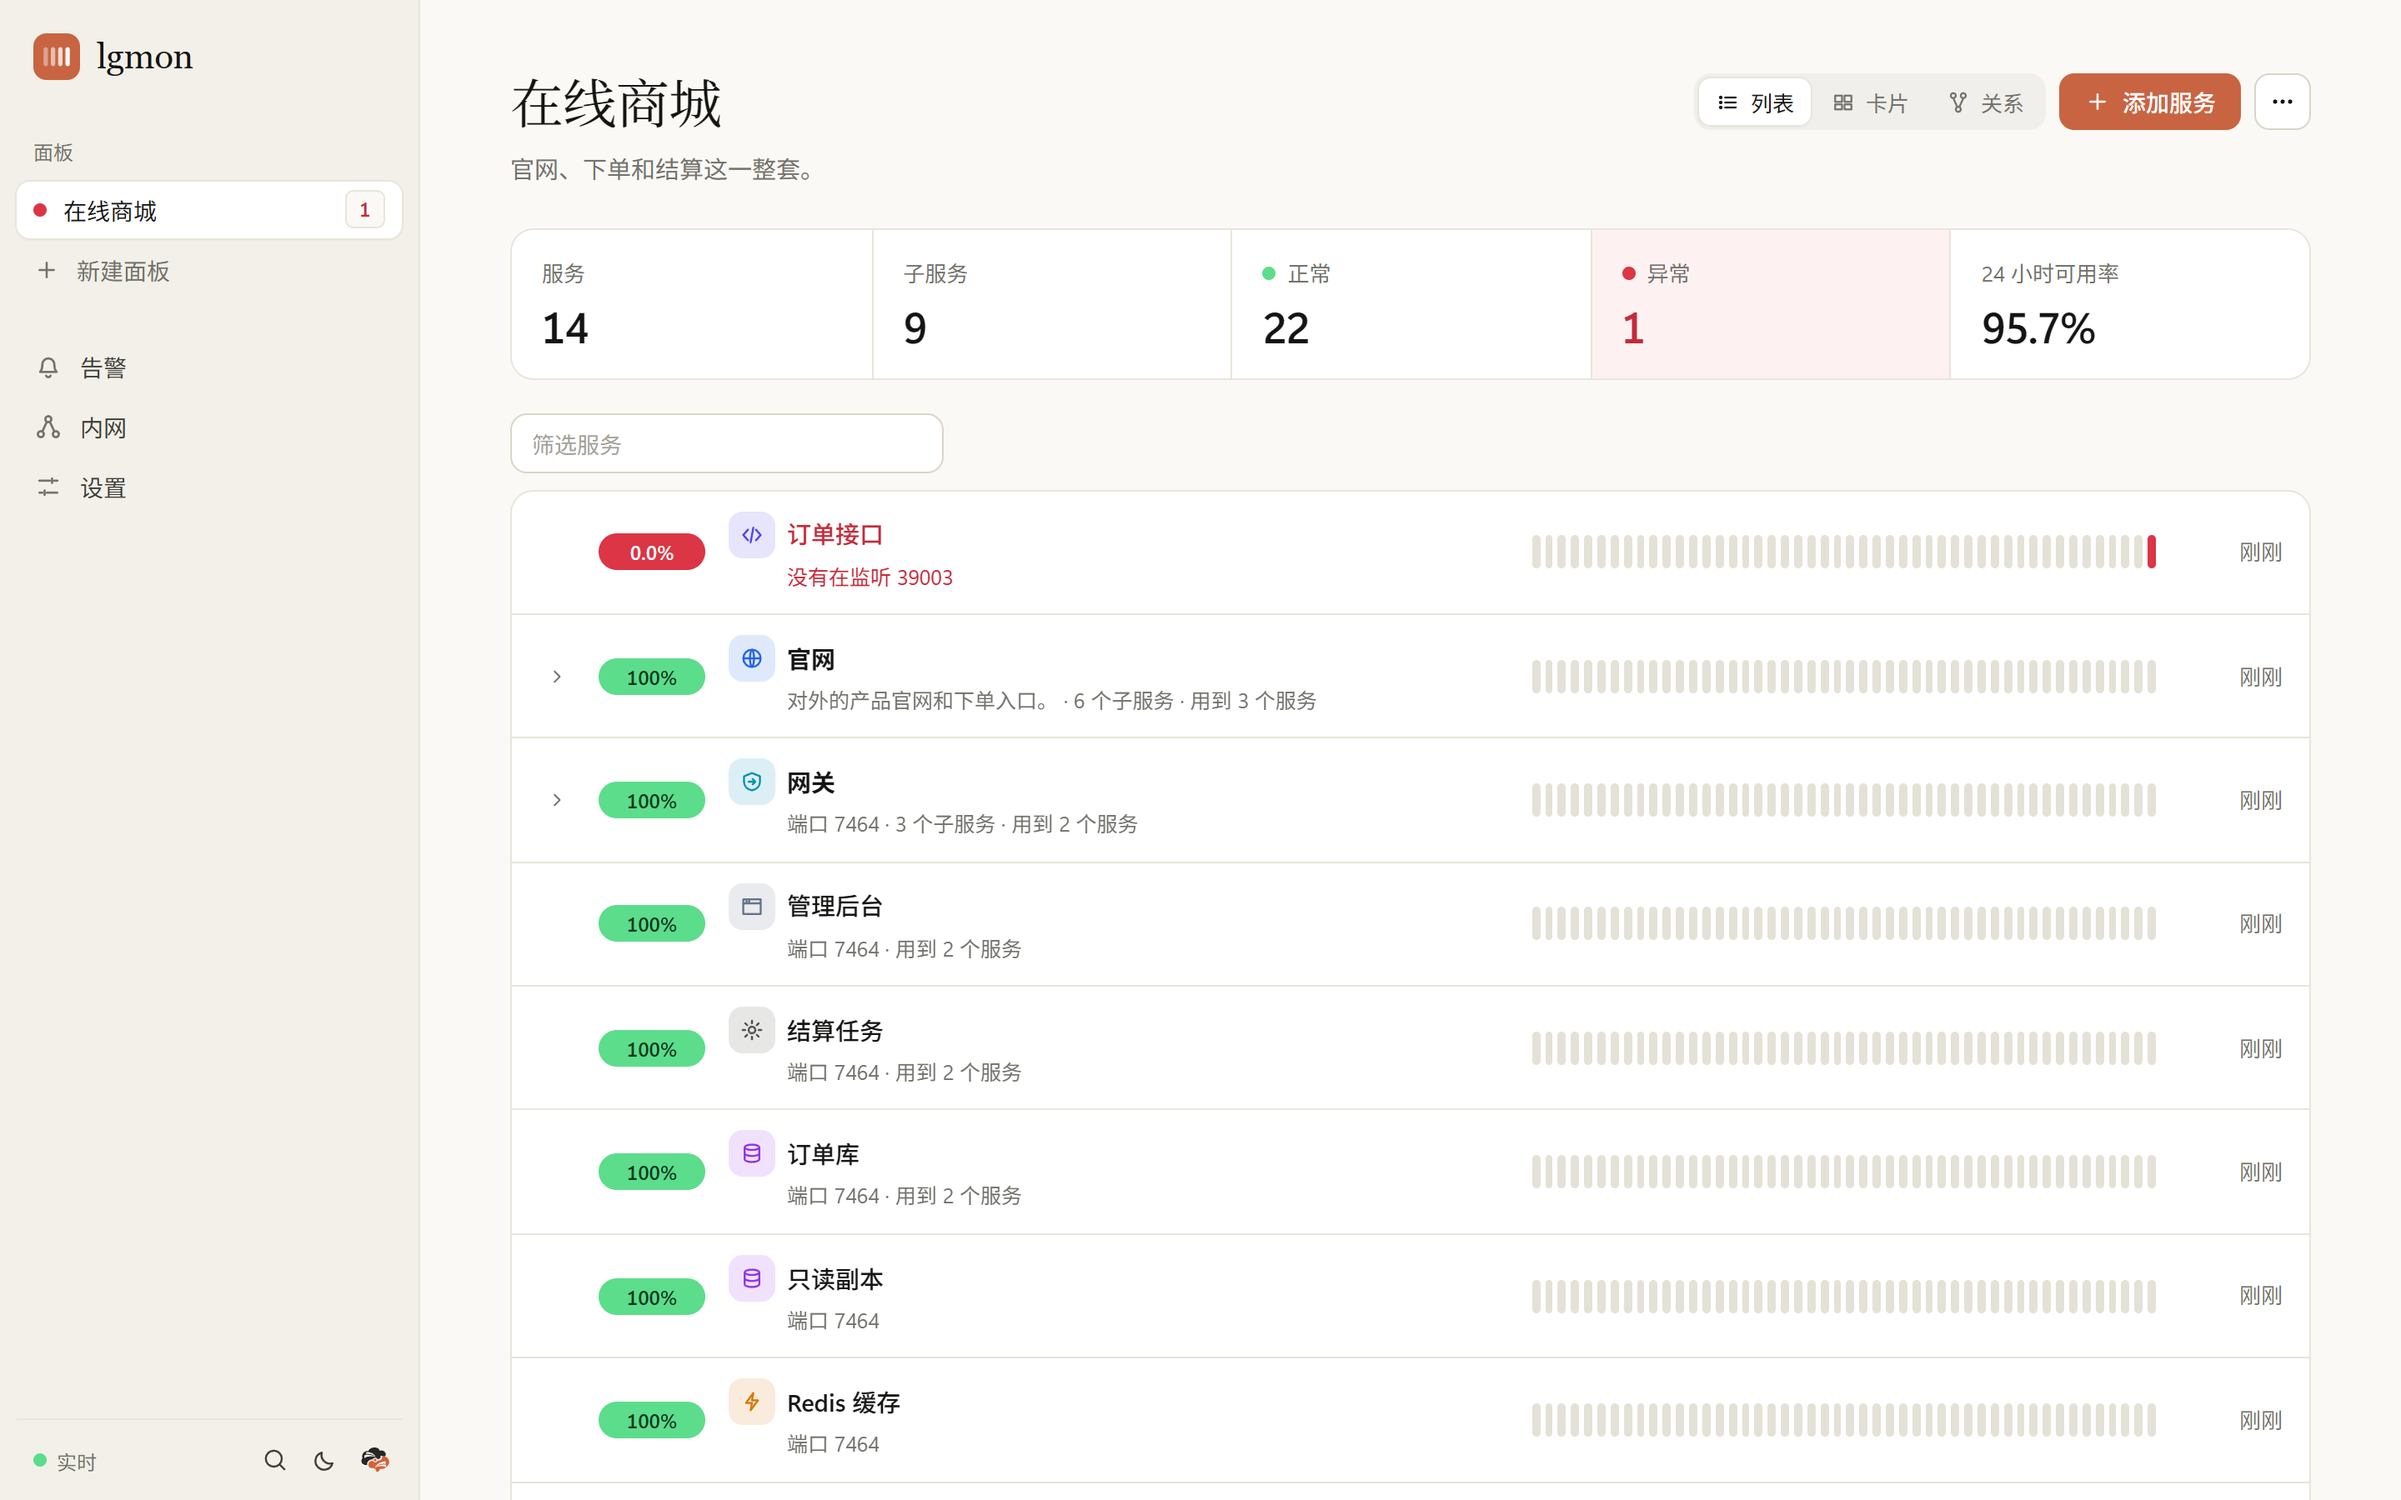
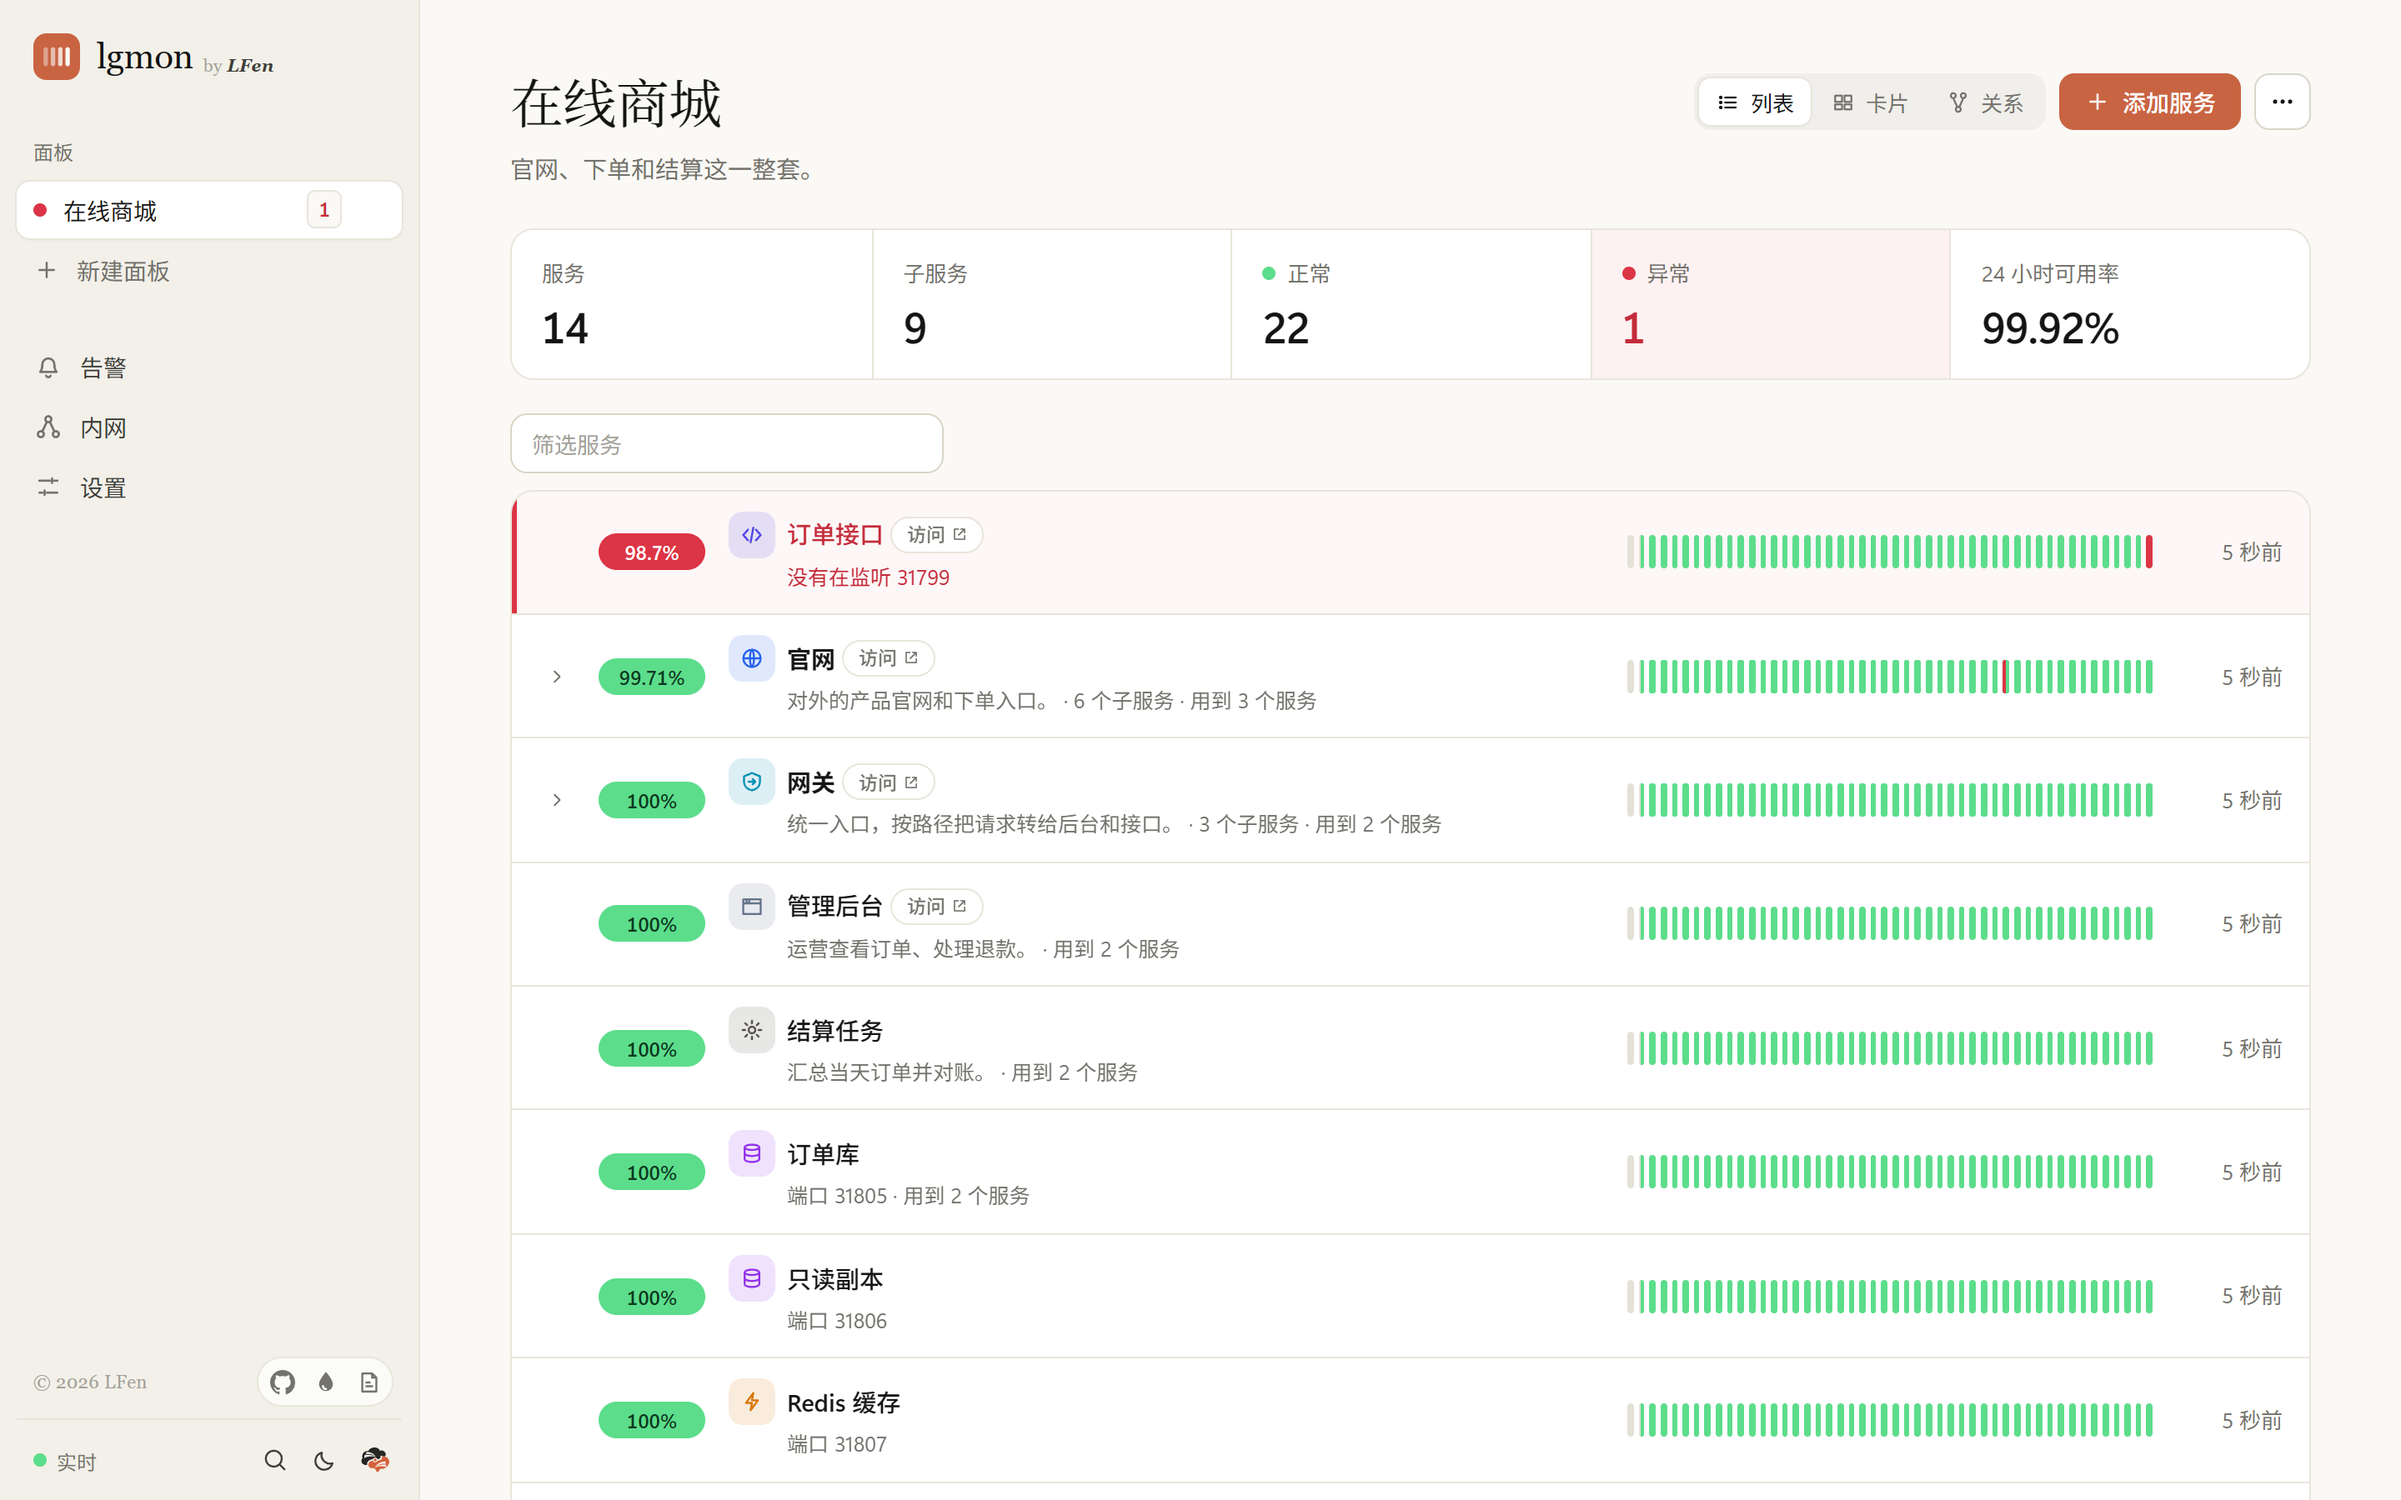
U20-02: refresh README screenshots

diff --git a/docs/PLAN.md b/docs/PLAN.md
@@ -4981,7 +4981,8 @@ README、web-panel、teams（改为内网共享）、mcp、agent-guide 更新。
 ### 2026-11-22 U20 会话续作与发布
 
 - [x] U20-01 合并工作区已有的服务加载、网页和权限交互改进，完成服务详情 30 天历史的跨保留期绘制。流式查询和 SQL 回退都覆盖仅剩小时汇总的时段，汇总的悬浮提示明确精确时点未保留。
-- [ ] U20-02 从完成后的构建重新拍摄五张 README 示意图。使用隔离的演示数据目录及虚构服务，检查深浅主题、关系图、小窗口和服务详情。
+- [x] U20-02 从完成后的构建重新拍摄五张 README 示意图。使用隔离的演示数据目录及虚构服务，核对深浅主题、关系图、小窗口和服务详情。
 - 本次任务来自本人要求继续主会话及其子会话，随后明确要求提交全部项目修改、推送和发版。已有改动使 `git pull --rebase` 拒绝执行，改用 `git fetch origin` 复核，开工时主工作区和子会话分支都与 `origin/main` 对齐，REVIEW 无待办。历史人工验收继续保留。
 - 系统服务本机网页按配置说明默认授予只读权限。个人运行仍可直接配置，系统服务可显式设置 `localAccess: config`，小窗口保留获取修改权限的入口。对 HTTP 压缩的协商处理包含 `q=0.0`，API 压缩用于 GET 响应。
 - 验证通过 `gofmt -l .`、`go vet ./...`、`go test ./...` 和 `scripts/build.ps1`。新增 Go 回归覆盖同一天由原始采样和小时汇总各占一半的情况，分别验证流式查询和 SQL 回退。新增前端回归验证填色和汇总提示。
+- 截图以 U20-01 的源码构建，在本机回环端口启动隔离的演示实例。样例展示 14 个虚构服务、9 个子服务和 30 天历史。Edge 验证昨天有汇总和原始采样，正常占比为 100%，整格都有颜色。目视核对五张截图以及关系图图例，截图与真实主机名和采集器 ID 隔离。演示进程和数据目录已清理。
